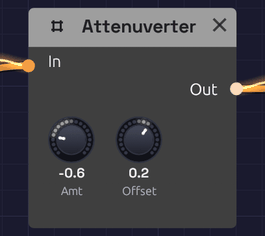
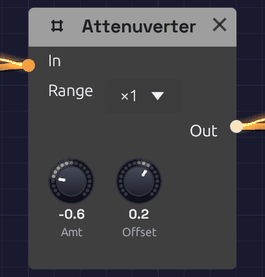
[Polish] Attenuverter: a Range switch, so an LFO can sweep an octave-scaled input far
- Range ×1 / ×4: at ×4 Amount reaches ±4 and Out's limit widens to ±4;
  the gain is smoothed, so switching Range doesn't click
- At ×4 the Amt knob reads the gain it gives (0.5 reads 2.0), through
  the knob takeover the synced LFO Rate uses
- Patches saved before Range open at ×1 and sound as they did; the
  Library voices with an Attenuverter now write Range, as the app saves
- Test: LFO stand-in through ×4 into ADSR Attack takes a 50 ms attack
  to 1/16 and 16× (about 3 ms and 0.8 s); ×1 still doubles
- The face is a row taller: From One Sine's Arp Attenuverter moves up
  into the room under its LFO; Orrery's first orbit column, The orbits
  frame and everything under it move down 33, keeping the frames' gaps
- Docs: Range on the Attenuverter page with a "Sweep an octave input
  far" patch; the ADSR's Stage CV section points to it; close-up re-shot

Closes #215

Claude-Session: https://claude.ai/code/session_01QSDyByDbZJb9vRNxtaKQYU

diff --git a/src/modules/attenuverter.rs b/src/modules/attenuverter.rs
@@ -2,6 +2,9 @@
 //!
 //! Scales and optionally inverts control signals.
 //! Essential for adjusting modulation depth before sending to destinations.
+//! At Range ×4 it can also make a signal bigger, for inputs scaled in
+//! octaves (an ADSR's stage CV, a Clock's Tempo), where ±1 is only a
+//! doubling or a halving.
 
 use crate::dsp::{
     context::ProcessContext,
@@ -36,6 +39,8 @@ use crate::dsp::{
 ///   negative values invert the signal. 0 = silence.
 /// - **Offset** (-1 to +1): DC offset added after scaling. Useful for shifting
 ///   unipolar signals to bipolar or vice versa.
+/// - **Range** (×1 / ×4): multiplies Amount, and widens the output's limit to
+///   match. ×1 keeps fine control and the ±1 limit; ×4 reaches ±4.
 pub struct Attenuverter {
     /// Port definitions.
     ports: Vec<PortDefinition>,
@@ -43,7 +48,7 @@ pub struct Attenuverter {
     parameters: Vec<ParameterDefinition>,
     /// Sample rate from last prepare() call.
     sample_rate: f32,
-    /// Smoothed amount parameter.
+    /// Smoothed gain: Amount times Range, so switching Range doesn't click.
     amount_smooth: SmoothedValue,
     /// Smoothed offset parameter.
     offset_smooth: SmoothedValue,
@@ -79,6 +84,9 @@ impl Attenuverter {
                     0.0, // Default: no offset
                     ParameterDisplay::linear(""),
                 ).describe("Constant value added after scaling"),
+                // Range: what Amount is multiplied by, and how far Out may go
+                ParameterDefinition::choice("range", "Range", &RANGE_LABELS, 0)
+                    .describe("×4 lets Amount make a signal up to four times bigger, to sweep an input scaled in octaves far"),
             ],
             sample_rate,
             // Initialize smoothed parameters
@@ -94,7 +102,17 @@ impl Attenuverter {
     /// Parameter index constants.
     const PARAM_AMOUNT: usize = 0;
     const PARAM_OFFSET: usize = 1;
+    const PARAM_RANGE: usize = 2;
+
+    /// The gain Range multiplies Amount by, and the limit Out stays within.
+    pub fn range_scale(choice: f32) -> f32 {
+        RANGE_SCALES[(choice.round().max(0.0) as usize).min(RANGE_SCALES.len() - 1)]
+    }
 }
+
+/// The Range choices, and what each multiplies Amount by.
+const RANGE_LABELS: [&str; 2] = ["×1", "×4"];
+const RANGE_SCALES: [f32; 2] = [1.0, 4.0];
 
 impl Default for Attenuverter {
     fn default() -> Self {
@@ -135,8 +153,10 @@ impl DspModule for Attenuverter {
         params: &[f32],
         context: &ProcessContext,
     ) {
-        // Set smoothing targets from parameters
-        self.amount_smooth.set_target(params[Self::PARAM_AMOUNT]);
+        // Set smoothing targets from parameters. A patch saved before Range
+        // has none, and plays at ×1
+        let scale = Self::range_scale(params.get(Self::PARAM_RANGE).copied().unwrap_or(0.0));
+        self.amount_smooth.set_target(params[Self::PARAM_AMOUNT] * scale);
         self.offset_smooth.set_target(params[Self::PARAM_OFFSET]);
 
         // Get input buffer
@@ -155,8 +175,8 @@ impl DspModule for Attenuverter {
                 .map(|buf| buf.samples.get(i).copied().unwrap_or(0.0))
                 .unwrap_or(0.0);
 
-            // Apply scaling and offset, clamp to valid control range
-            let out_value = (in_value * amount + offset).clamp(-1.0, 1.0);
+            // Apply scaling and offset, within ±1 (±4 at ×4)
+            let out_value = (in_value * amount + offset).clamp(-scale, scale);
             output.samples[i] = out_value;
         }
     }
@@ -203,7 +223,7 @@ mod tests {
         let att = Attenuverter::new();
         let params = att.parameters();
 
-        assert_eq!(params.len(), 2);
+        assert_eq!(params.len(), 3);
 
         // Amount parameter
         assert_eq!(params[0].id, "amount");
@@ -216,6 +236,10 @@ mod tests {
         assert!((params[1].min - (-1.0)).abs() < f32::EPSILON);
         assert!((params[1].max - 1.0).abs() < f32::EPSILON);
         assert!((params[1].default - 0.0).abs() < f32::EPSILON);
+
+        // Range parameter: ×1 by default, so older patches play as they did
+        assert_eq!(params[2].id, "range");
+        assert_eq!(params[2].default, 0.0);
     }
 
     #[test]
@@ -414,6 +438,47 @@ mod tests {
     }
 
     #[test]
+    fn test_attenuverter_range_x4_reaches_four() {
+        let mut att = Attenuverter::new();
+        att.prepare(44100.0, 256);
+
+        let mut input = SignalBuffer::control(256);
+        input.fill(-1.0);
+
+        let mut outputs = vec![SignalBuffer::control(256)];
+        let ctx = ProcessContext::new(44100.0, 256);
+
+        // Amount 1 at ×4: a full-scale input comes out four times as big
+        for _ in 0..20 {
+            att.process(&[&input], &mut outputs, &[1.0, 0.0, 1.0], &ctx);
+        }
+        assert!((outputs[0].samples[255] + 4.0).abs() < 0.01, "got {}", outputs[0].samples[255]);
+
+        // ...and the offset adds on top, within ±4
+        for _ in 0..20 {
+            att.process(&[&input], &mut outputs, &[0.5, 0.5, 1.0], &ctx);
+        }
+        assert!((outputs[0].samples[255] + 1.5).abs() < 0.01, "got {}", outputs[0].samples[255]);
+    }
+
+    #[test]
+    fn test_attenuverter_without_range_plays_at_x1() {
+        // A patch saved before Range passes two parameters, and still clamps at ±1
+        let mut att = Attenuverter::new();
+        att.prepare(44100.0, 256);
+
+        let mut input = SignalBuffer::control(256);
+        input.fill(1.0);
+
+        let mut outputs = vec![SignalBuffer::control(256)];
+        let ctx = ProcessContext::new(44100.0, 256);
+        for _ in 0..20 {
+            att.process(&[&input], &mut outputs, &[1.0, 0.5], &ctx);
+        }
+        assert!((outputs[0].samples[255] - 1.0).abs() < 0.01, "got {}", outputs[0].samples[255]);
+    }
+
+    #[test]
     fn test_attenuverter_no_input() {
         let mut att = Attenuverter::new();
         att.prepare(44100.0, 256);
@@ -464,6 +529,6 @@ mod tests {
         assert_eq!(module.info().id, "util.attenuverter");
         assert_eq!(module.info().name, "Attenuverter");
         assert_eq!(module.ports().len(), 2); // 1 input + 1 output
-        assert_eq!(module.parameters().len(), 2); // Amount, Offset
+        assert_eq!(module.parameters().len(), 3); // Amount, Offset, Range
     }
 }

diff --git a/tests/adsr_stage_cv.rs b/tests/adsr_stage_cv.rs
@@ -75,3 +75,56 @@ fn cv_into_release_lengthens_the_tail() {
     let zero = rings_for(&pluck(0.0, &[(6, "Out", "Release")]), 100, 0.02);
     assert!((zero - knob).abs() < 1e-3, "{zero} vs {knob}");
 }
+
+/// How long a held note at a high pitch (A7, so the wave is fine-grained)
+/// takes to rise from its onset to 90% of its peak, with a 50 ms Attack
+/// knob. Node 6 is an Attenuverter with nothing in, putting out `offset`
+/// (an LFO at one end of its swing); if `range` is Some, a second
+/// Attenuverter at Amount 1 and that Range carries it into Attack.
+fn attack_time(offset: f32, range: Option<usize>) -> f32 {
+    let mut patch = Patch::new("Swell");
+    patch.nodes = vec![
+        node(1, "output.audio", &[("Volume", 1.0)]),
+        node(2, "input.midi_note", &[]),
+        node(3, "osc.sine", &[]),
+        node(4, "mod.adsr", &[("Attack", 0.05), ("Decay", 0.2), ("Sustain", 1.0), ("Release", 0.1)]),
+        node(5, "util.vca", &[("Level", 0.5)]),
+        node(6, "util.attenuverter", &[("Offset", offset)]),
+    ];
+    let wire = |a, ap: &str, b, bp: &str| ConnectionData::new(a, ap, b, bp);
+    patch.connections = vec![
+        wire(2, "Pitch", 3, "V/Oct"),
+        wire(2, "Gate", 4, "Gate"),
+        wire(4, "Out", 5, "CV"),
+        wire(3, "Out", 5, "In"),
+        wire(5, "Out", 1, "Mono"),
+    ];
+    if let Some(range) = range {
+        let mut scale = node(7, "util.attenuverter", &[("Amount", 1.0)]);
+        scale.parameters.push(NamedParameter::new("Range", ParameterValue::Select(range)));
+        patch.nodes.push(scale);
+        patch.connections.extend([wire(6, "Out", 7, "In"), wire(7, "Out", 4, "Attack")]);
+    }
+    let (mut r, compiled) = OfflineRenderer::from_patch(&patch, RATE, 256).unwrap();
+    assert!(compiled.warnings.is_empty(), "{:?}", compiled.warnings);
+    r.queue_midi(0, 0, MidiMessage::NoteOn { note: 105, velocity: 127 });
+    let out = r.render((1.5 * RATE) as usize).left;
+    let peak = out.iter().fold(0.0f32, |m, &s| m.max(s.abs()));
+    let onset = out.iter().position(|&s| s.abs() > peak * 0.01).unwrap();
+    let top = out.iter().position(|&s| s.abs() > peak * 0.9).unwrap();
+    (top - onset) as f32 / RATE
+}
+
+#[test]
+fn an_attenuverter_at_x4_sweeps_the_attack_far() {
+    // #215: ±1 into Attack only halves or doubles a 50 ms attack. Through an
+    // Attenuverter at ×4 it's ±4 octaves: from about 3 ms to 0.8 s
+    let knob = attack_time(0.0, None);
+    let (snappy, slow) = (attack_time(-1.0, Some(1)), attack_time(1.0, Some(1)));
+    assert!((snappy / knob - 1.0 / 16.0).abs() < 0.1 / 16.0, "knob {knob:.4}s, -4 {snappy:.4}s");
+    assert!((slow / knob - 16.0).abs() < 0.1 * 16.0, "knob {knob:.4}s, +4 {slow:.4}s");
+
+    // At ×1 it's the doubling it always was
+    let doubled = attack_time(1.0, Some(0));
+    assert!((doubled / knob - 2.0).abs() < 0.1 * 2.0, "knob {knob:.4}s, +1 {doubled:.4}s");
+}

diff --git a/src/graph/clock_display.rs b/src/graph/clock_display.rs
@@ -13,13 +13,15 @@
 //! division while it's synced, and the Clock's Tempo shows the master's
 //! tempo while it follows MIDI. A Clock's Tempo with a cable in its jack
 //! stays in hand, and shows the tempo the cable bends it to (see
-//! [`super::knob_cv`]).
+//! [`super::knob_cv`]). An Attenuverter's Amount at Range ×4 stays in
+//! hand too, and reads the gain it gives.
 
 use eframe::egui::{self, Color32, Pos2, Rect, Sense, Stroke, Vec2};
 use egui_node_graph2::NodeId;
 
 use crate::app::theme;
 use crate::dsp::Readout;
+use crate::modules::attenuverter::Attenuverter;
 use crate::modules::clock::{Clock, ClockDivision};
 use crate::modules::lfo::{Lfo, SYNC_DIVISIONS};
 
@@ -116,6 +118,15 @@ pub fn knob_takeover(
             })
         }
         ("seq.arranger", "Steps") => super::arranger_follow::steps_takeover(graph, user_state, node_id),
+        // At ×4 the Amount knob reads the gain it gives, not its position
+        ("util.attenuverter", "Amount") => {
+            let scale = Attenuverter::range_scale(selected(graph, node_id, "Range")? as f32);
+            (scale != 1.0).then(|| KnobTakeover {
+                value: None,
+                text: format!("{:.1}", number(graph, node_id, "Amount").unwrap_or(1.0) * scale),
+                locked: false,
+            })
+        }
         _ => None,
     }
 }

diff --git a/src/graph/module_ui.rs b/src/graph/module_ui.rs
@@ -266,6 +266,7 @@ static MODULE_UI: &[ModuleUi] = &[
     ModuleUi {
         module_id: "util.attenuverter",
         knobs: &[knob_as("Amount", "Amt"), knob("Offset")],
+        labels: &[("Range", "Range")],
         ..ModuleUi::DEFAULT
     },
     ModuleUi {

diff --git a/docs/src/modules/utilities/attenuverter.md b/docs/src/modules/utilities/attenuverter.md
@@ -5,7 +5,7 @@
 ![Attenuverter Module](../../images/module-attenuverter.png)
 *Amount scales and flips the input; Offset slides the result up or down.*
 
-An attenuverter turns a signal down, turns it upside down, or both. The name joins *attenuate* and *invert*. It also has an **Offset** knob that adds a fixed value afterwards. Between them, the two knobs adapt one module's output to what another module's input expects. Use it to tame an LFO that swings too wide, to make an envelope close a filter instead of opening it, or to turn a 0–1 signal into a -1–1 one.
+An attenuverter turns a signal down, turns it upside down, or both. The name joins *attenuate* and *invert*. It also has an **Offset** knob that adds a fixed value afterwards. Between them, the two knobs adapt one module's output to what another module's input expects. Use it to tame an LFO that swings too wide, to make an envelope close a filter instead of opening it, or to turn a 0–1 signal into a -1–1 one. At **Range** ×4 it can also make a signal bigger, to sweep an input measured in octaves a long way.
 
 With nothing patched into **In**, the output is just the Offset: a steady, hand-set control value you can patch anywhere.
 
@@ -21,7 +21,7 @@ The Attenuverter is polyphonic. Each channel of a polyphonic cable is scaled on 
 
 | Port | Signal Type | Description |
 |------|-------------|-------------|
-| **Out** | Control (Orange) | In × Amount + Offset, kept within -1 to +1 |
+| **Out** | Control (Orange) | In × Amount + Offset, kept within -1 to +1 (-4 to +4 at Range ×4) |
 
 ## Parameters
 
@@ -29,11 +29,12 @@ The Attenuverter is polyphonic. Each channel of a polyphonic cable is scaled on 
 |------|-------|---------|-------------|
 | **Amt** (Amount) | -1 to +1 | +1 | Scales the input. Negative values flip it upside down |
 | **Offset** | -1 to +1 | 0 | A constant added after scaling |
+| **Range** | ×1, ×4 | ×1 | What Amount is multiplied by. At ×4, Amount reaches ±4 and the output may too |
 
 ## How it works
 
 ```text
-Out = In × Amount + Offset        (limited to -1 … +1)
+Out = In × Amount × Range + Offset        (limited to ±Range)
 ```
 
 | Amount | Effect |
@@ -44,7 +45,11 @@ Out = In × Amount + Offset        (limited to -1 … +1)
 | -0.5 | Half as strong, upside down |
 | -1 | Full strength, upside down |
 
-The output never goes past ±1. The Attenuverter can make a signal smaller or flip it, but it can't make it bigger. A sum that would exceed ±1 flattens at the limit, so if a large Offset clips the peaks of your signal, turn Amount down to make room.
+At **Range** ×1 the output never goes past ±1. The Attenuverter can make a signal smaller or flip it, but it can't make it bigger. A sum that would exceed ±1 flattens at the limit, so if a large Offset clips the peaks of your signal, turn Amount down to make room.
+
+**Range** ×4 multiplies Amount by four, so the knob's ends are ±4 and its middle still 0. The **Amt** knob reads the gain it gives: turned to the same place as 0.5, it reads 2.0. The output's limit widens to ±4 with it. Most inputs read only -1 to +1 and would clip anything bigger, so keep ×1 for them. ×4 is for inputs counted in octaves, where +1 is only a doubling: an [ADSR](../modulation/adsr.md#stage-cv)'s stage CV, a [Clock](../modulation/clock.md)'s Tempo, a [Slope](../modulation/slope.md)'s Rise and Fall. A filter's Cutoff counts in octaves too, but its own **CV Amt** already reaches ±4.
+
+Patches saved before Range existed open at ×1 and sound as they did.
 
 Both knobs are smoothed, so turning them doesn't step or click.
 
@@ -72,7 +77,7 @@ The SVF's Cutoff input moves the cutoff in octaves around its knob, so set the *
 
 ### Unipolar to bipolar
 
-An envelope runs from 0 to 1. With Amount 1 and Offset -0.5, it runs from -0.5 to +0.5, centered on zero. (A full -1 to +1 swing would need a gain of 2, which the Attenuverter can't give.)
+An envelope runs from 0 to 1. With Amount 1 and Offset -0.5, it runs from -0.5 to +0.5, centered on zero. For the full -1 to +1 swing, it needs a gain of 2: Range ×4, Amount 2.0, Offset -1.
 
 ```text
 [ADSR Out] ──> [Attenuverter In]      (Amt 1, Offset -0.5)
@@ -87,6 +92,17 @@ A bipolar LFO swings from -1 to +1. Halve it and lift it by half to get 0 to 1:
 ```
 
 The LFO's own **Bipolar** switch does the same thing; this is for sources without one.
+
+### Sweep an octave input far
+
+An LFO straight into an ADSR's **Attack** swings the attack only between half and double its knob. Scaled up four times, it swings four octaves each way: a 50 ms attack moves from about 3 ms to 0.8 s, so notes go from a snap to a slow swell and back.
+
+```text
+[LFO Out] ──> [Attenuverter In] ──> [ADSR Attack]
+               (Range ×4, Amt 4.0)
+```
+
+Turn Amount down for a narrower sweep. At 2.0, the attack moves two octaves each way, from a quarter of the knob's time to four times it.
 
 ### A fixed control value
 

diff --git a/docs/src/modules/modulation/adsr.md b/docs/src/modules/modulation/adsr.md
@@ -82,6 +82,8 @@ Each stage has a jack beside its knob. CV there moves the stage around where the
 - **Attack**, **Decay** and **Release** count in octaves of time. +1 doubles the knob's time, +2 quadruples it, and −1 halves it. A 500 ms release with +3 patched in rings for 4 s. The time stays within the knob's 1 ms – 10 s.
 - **Sustain** adds to the knob's level, so +0.3 lifts a 40% sustain to 70%.
 
+Most CV swings between −1 and +1, so an LFO patched straight into **Attack** only halves and doubles the attack. A 10 ms attack moves between 5 and 20 ms, which is hard to hear. To sweep it further, scale the LFO up first through an [Attenuverter](../utilities/attenuverter.md#sweep-an-octave-input-far) set to **Range** ×4. At ±4 octaves a 50 ms attack moves from about 3 ms to 0.8 s, from a snap to a swell.
+
 The envelope reads CV on every sample, not just at each note. A cue that lands while a release is already falling stretches what's left of it, and the curve bends there without a step.
 
 While a stage's jack is patched, its knob shows where the CV has taken it: an orange arc out to a bead on its rim, and the number under the knob in orange. The display draws that stage the way the envelope is running it, with its letter tinted. When a lane ramps the release out, you can watch the tail widen.
